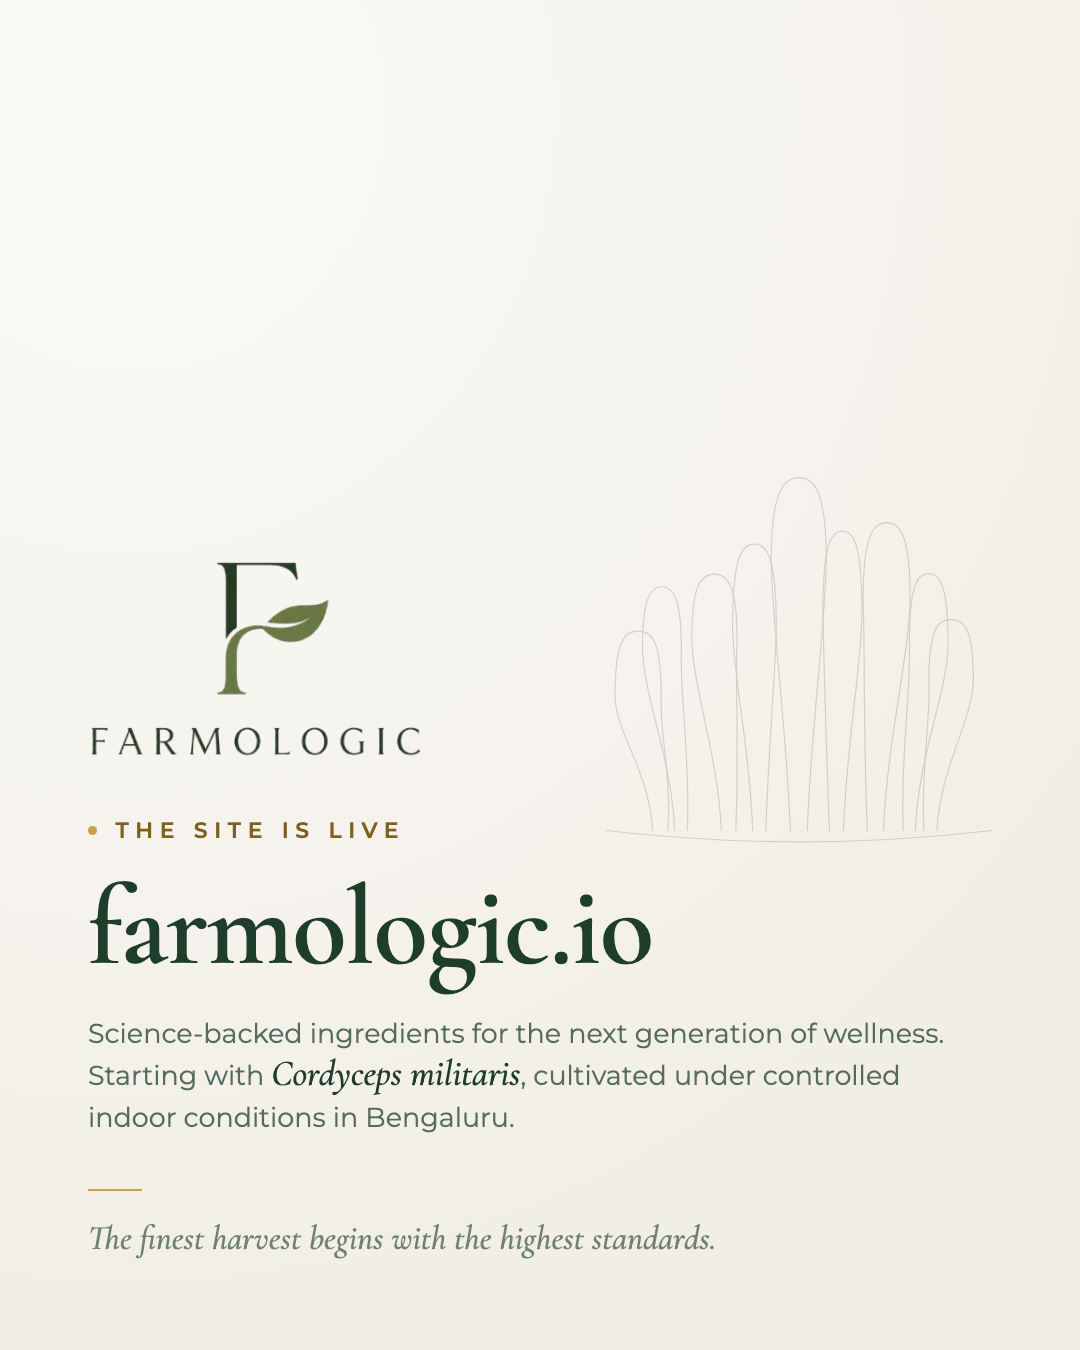
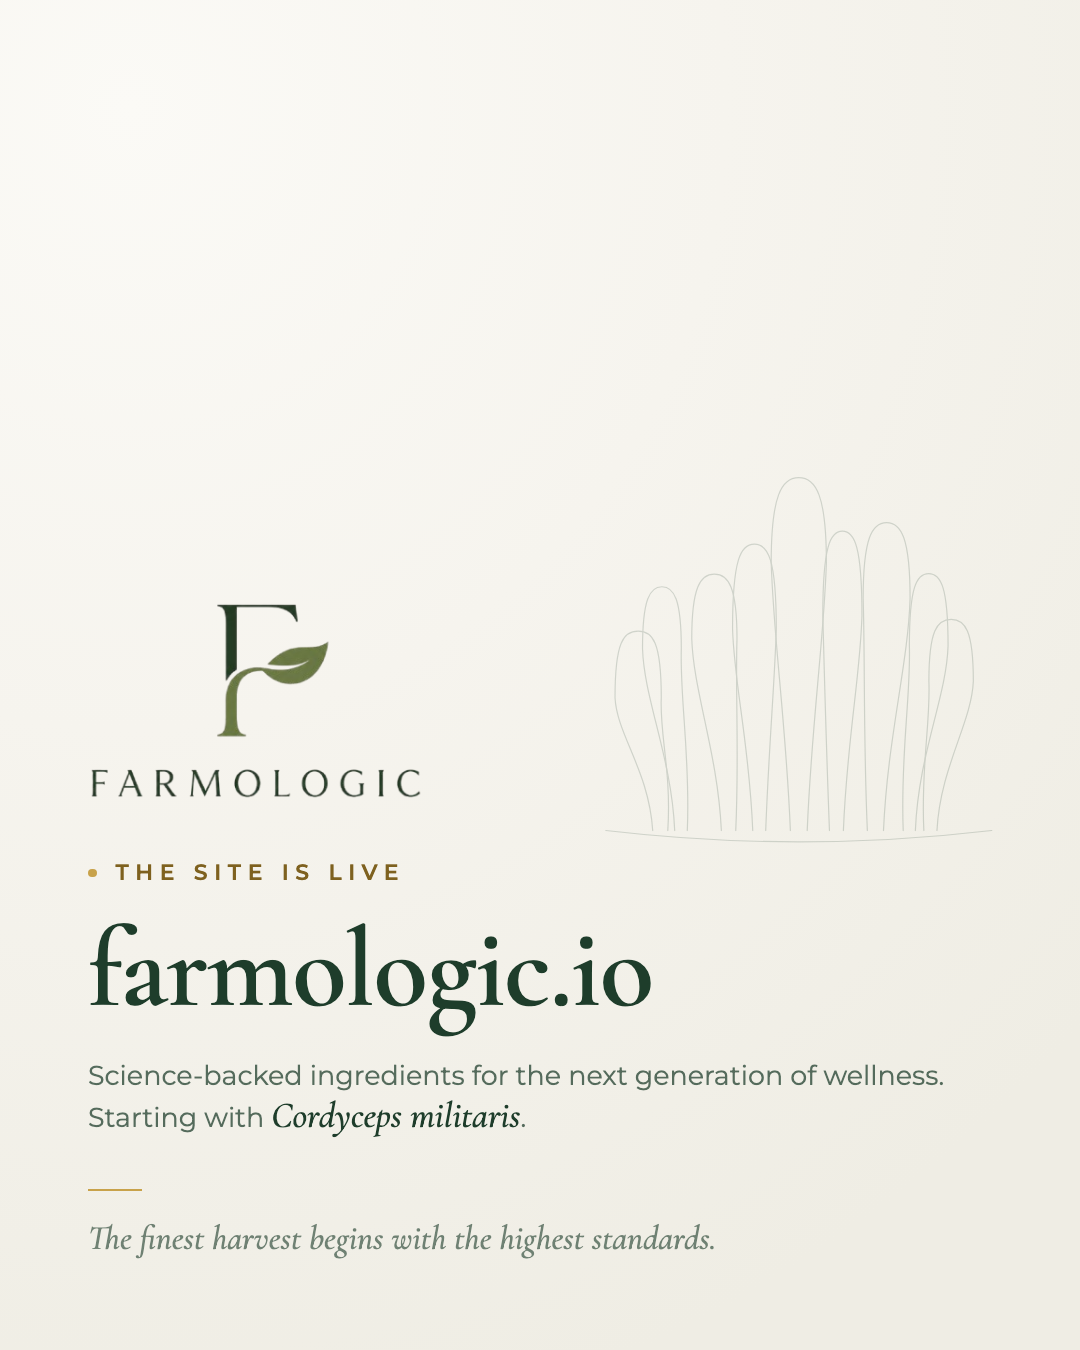
Cut the studio supporting line to two lines
Was three lines on every board. It now reads "Science-backed ingredients
for the next generation of wellness. Starting with Cordyceps militaris."

The cultivation clause is dropped rather than trimmed. Shortening it would
have meant cutting "controlled" out of "cultivated under controlled indoor
conditions", which is the client's own approved wording, and that detail
already sits on the site. What remains is the positioning line as written.

Two lines on all five studio boards.

Changed region(s): [[0.0611, 0.4044, 0.8556, 0.84], [0.3667, 0.5289, 0.3972, 0.5911]]

diff --git a/marketing/build_posters.py b/marketing/build_posters.py
@@ -95,8 +95,7 @@ COPY = {
         "head": "farmologic.io",
         "head_italic": False,
         "sub": "Science-backed ingredients for the next generation of wellness. "
-               "Starting with <em>Cordyceps militaris</em>, cultivated under "
-               "controlled indoor conditions in Bengaluru.",
+               "Starting with <em>Cordyceps militaris</em>.",
         "quote": "The finest harvest begins with the highest standards.",
     },
 }
